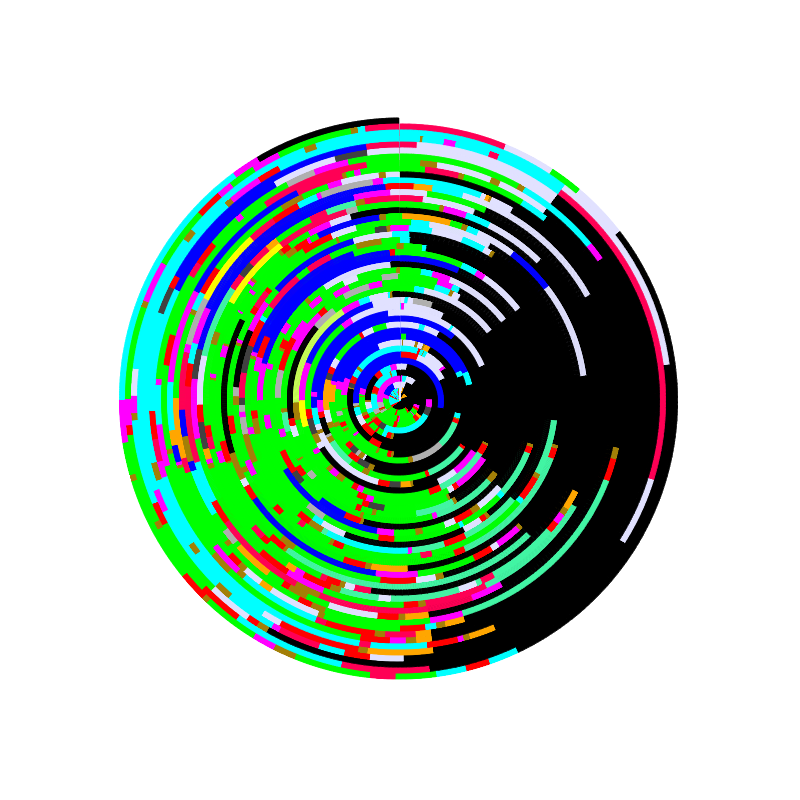
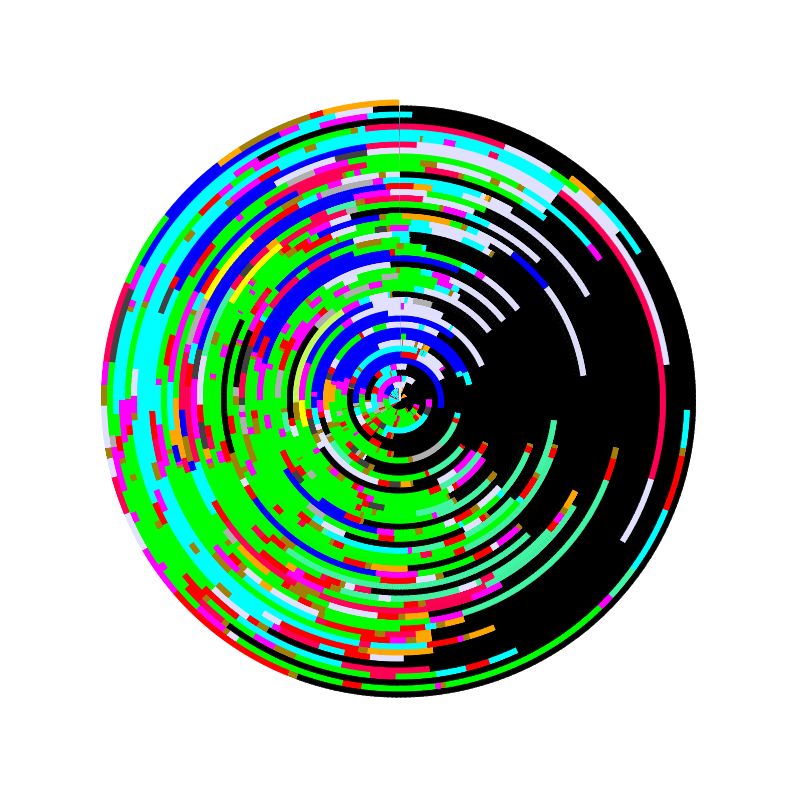
Added 4/2 - 4/4

Changed region(s): [[0.125, 0.125, 0.875, 0.875]]

diff --git a/index.html b/index.html
@@ -15,13 +15,13 @@
 		</div>
 	-->
 		<div class="inputDiv">
-			<label for="cRad">Pie Radius</label><input name="cRad" id="cRad" type="number" min="0.1" max="50" step="1" value="192">
+			<label for="cRad">Pie Radius</label><input name="cRad" id="cRad" type="number" min="0.1" max="50" step="1" value="204">
 		</div>
 		<div class="inputDiv">
-			<label for="sRad">Spiral Start Radius</label><input name="sRad" id="sRad" type="number" min="0.1" max="50" step="1" value="282">
+			<label for="sRad">Spiral Start Radius</label><input name="sRad" id="sRad" type="number" min="0.1" max="50" step="1" value="300">
 		</div>
 		<div class="inputDiv">
-			<label for="eRad">Spiral End Radius</label><input name="eRad" id="eRad" type="number" min="0.1" max="50" step="1" value="288">
+			<label for="eRad">Spiral End Radius</label><input name="eRad" id="eRad" type="number" min="0.1" max="50" step="1" value="306">
 		</div>
 		<div id="buttonDiv">
 			<label>Open .png <input type="file" id="impBtn" name="impBtn" accept=".png" onchange="importCanvas();"></label>
@@ -58,10 +58,9 @@
 			var ctx2 = canvas2.getContext("2d");
 
 			var myDay = [
-			['02:30','sleep'],
-			['02:55','reading'],
-			['03:03','bathroom'],
-			['03:53','side work'],
+				['02:44','TV'],
+				['03:15','side work'],
+				['','TV'],
 			];
 
 			var categories = {
